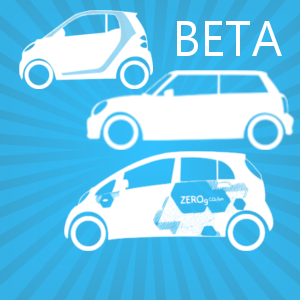
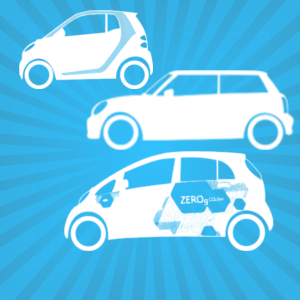
Remove Beta and bump version numbers.

Changed region(s): [[0.57, 0.06, 0.84, 0.21], [0.84, 0.06, 0.96, 0.21]]

diff --git a/FreeCars/MainPage.xaml b/FreeCars/MainPage.xaml
@@ -49,7 +49,7 @@
 		<Grid x:Name="AdsGrid" Grid.Row="2" Visibility="Collapsed">
 			<adduplex:AdControl
 				x:Name="AdDuplexAdControl" Visibility="Visible"
-				AppId="23527"
+				AppId="23411"
 				AdLoadingError="OnAdduplexAddControlErrorOccured"
 				AdLoaded="OnAdduplexAddControlAdRefreshed" 
 				RefreshInterval="30" />

diff --git a/FreeCars/Properties/AssemblyInfo.cs b/FreeCars/Properties/AssemblyInfo.cs
@@ -32,6 +32,6 @@ using System.Resources;
 //
 // You can specify all the values or you can default the Revision and Build Numbers 
 // by using the '*' as shown below:
-[assembly: AssemblyVersion("1.4.1.0")]
-[assembly: AssemblyFileVersion("1.4.1.0")]
+[assembly: AssemblyVersion("1.4.0.0")]
+[assembly: AssemblyFileVersion("1.4.0.0")]
 [assembly: NeutralResourcesLanguageAttribute("en")]

diff --git a/FreeCars/MainPage.xaml.cs b/FreeCars/MainPage.xaml.cs
@@ -41,7 +41,7 @@ namespace FreeCars {
 		}
 
 		private void CheckTrialAndAds() {
-			AdsGrid.Visibility = App.IsInTrialMode || true
+			AdsGrid.Visibility = App.IsInTrialMode
 				? Visibility.Visible
 				: Visibility.Collapsed;
 		}
